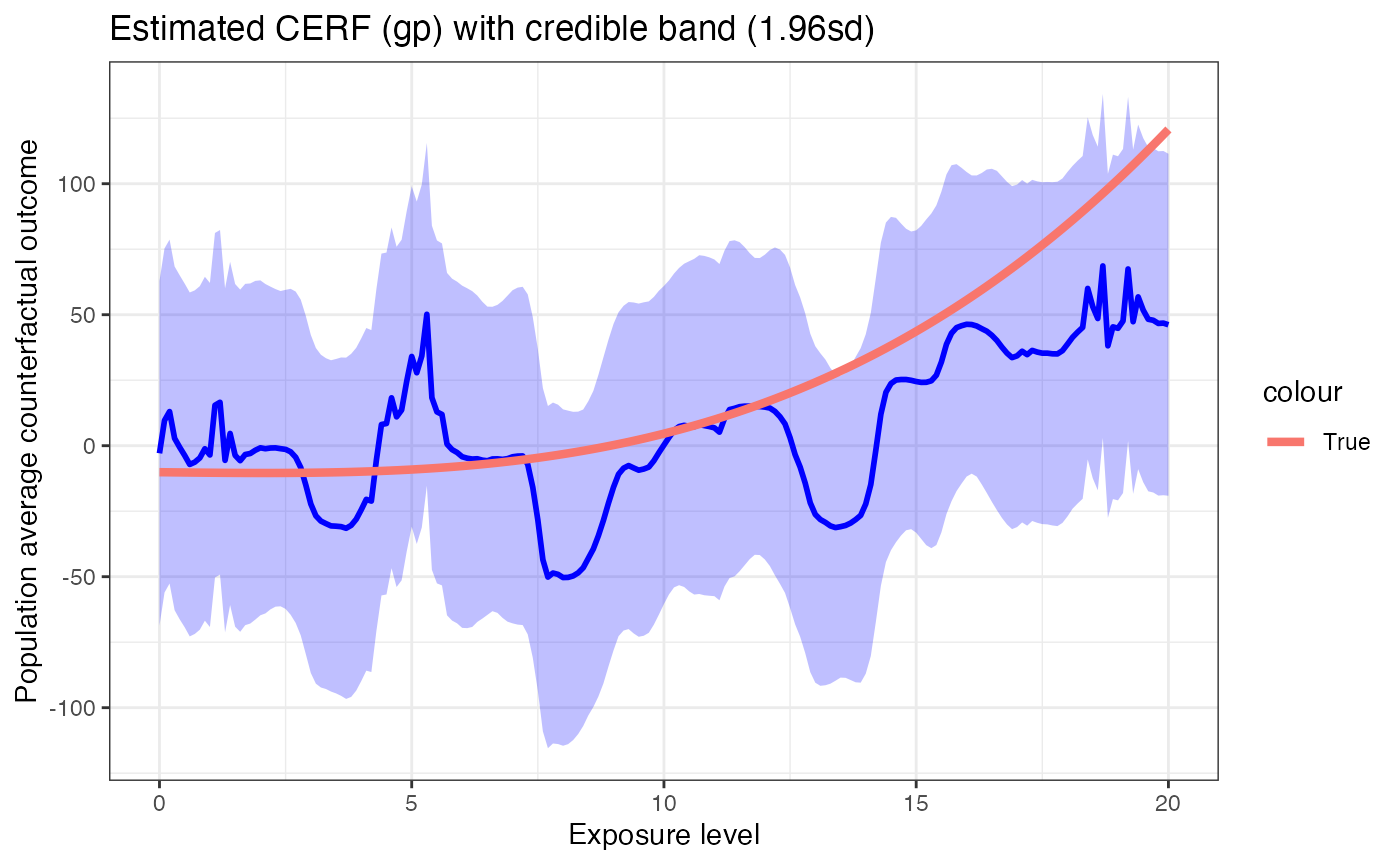
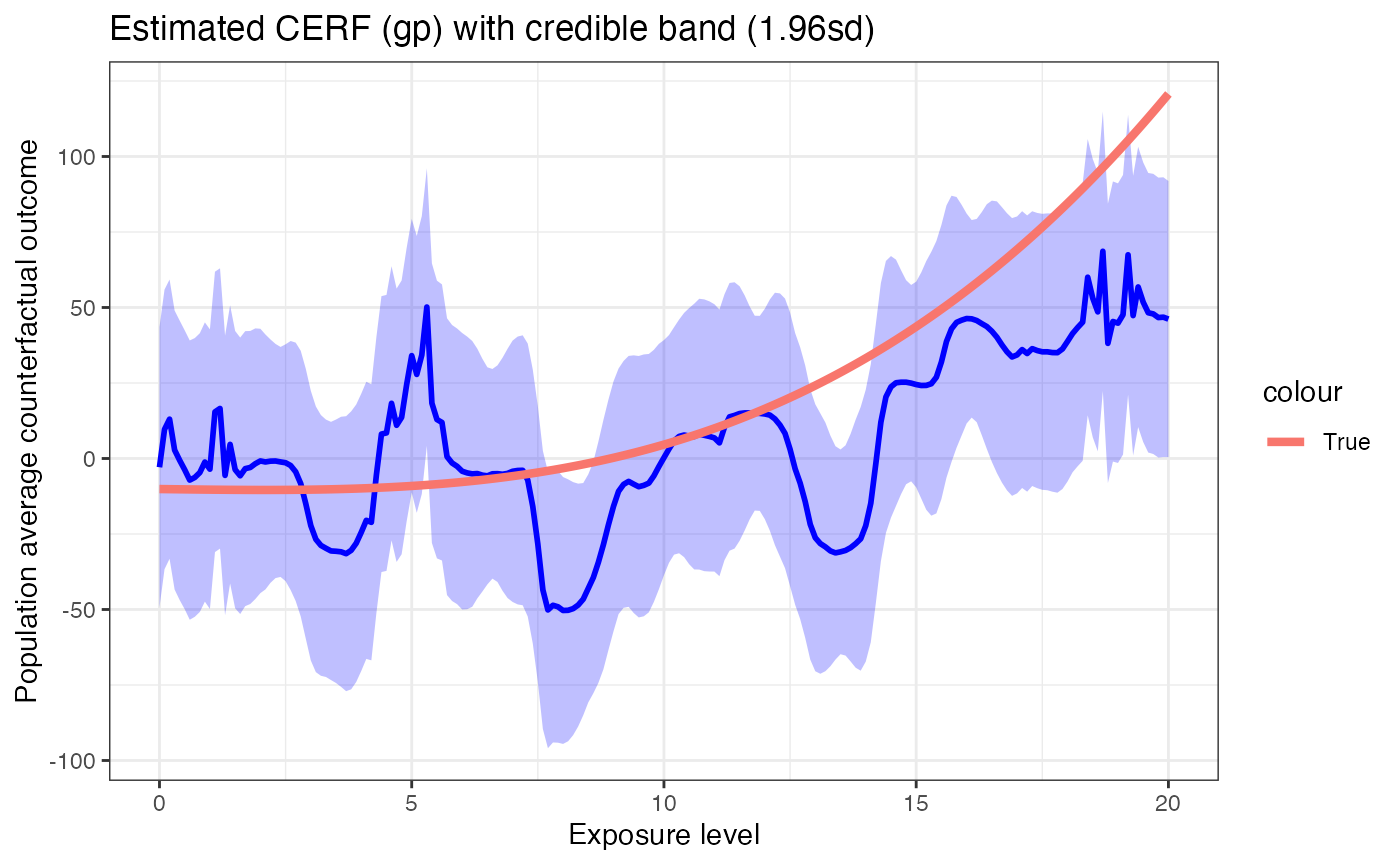
fix tests

diff --git a/README.md b/README.md
@@ -22,31 +22,42 @@ library("GPCERF")
 ### GP
 
 ```r
+library(GPCERF)
 set.seed(781)
 sim_data <- generate_synthetic_data(sample_size = 500, gps_spec = 1)
 
-m_xgboost <- function(nthread = 12, ...) {
+n_core <- 1
+
+m_xgboost <- function(nthread = n_core, ...) {
   SuperLearner::SL.xgboost(nthread = nthread, ...)
+}
+
+m_ranger <- function(num.threads = n_core, ...){
+  SuperLearner::SL.ranger(num.threads = num.threads, ...)
 }
 
 # Estimate GPS function
 GPS_m <- estimate_gps(cov_mt = sim_data[,-(1:2)],
                       w_all = sim_data$treat,
-                      sl_lib = c("m_xgboost"),
+                      sl_lib = c("m_xgboost", "m_ranger"),
                       dnorm_log = TRUE)
 
 # exposure values
-w_all <- seq(min(sim_data$treat)+1, max(sim_data$treat)-1, 1)
+q1 <- stats::quantile(sim_data$treat, 0.05)
+q2 <- stats::quantile(sim_data$treat, 0.95)
+
+w_all <- seq(q1, q2, 1)
+
+params_lst <- list(alpha = 10 ^ seq(-2, 2, length.out = 10),
+                   beta = 10 ^ seq(-2, 2, length.out = 10),
+                   g_sigma = c(0.1, 1, 10),
+                   tune_app = "all")
 
 cerf_gp_obj <- estimate_cerf_gp(sim_data,
                                 w_all,
                                 GPS_m,
-                                params = list(alpha = c(0.01, 0.1, 1, 2, 3, 4),
-                                              beta = c(0.01, 0.1, 1, 10, 100),
-                                              g_sigma = c(0.001, 0.01, 0.1, 1),
-                                              tune_app = "all"),
-                                nthread = 12)
-
+                                params = params_lst,
+                                nthread = n_core)
 summary(cerf_gp_obj)
 plot(cerf_gp_obj)
 ```
